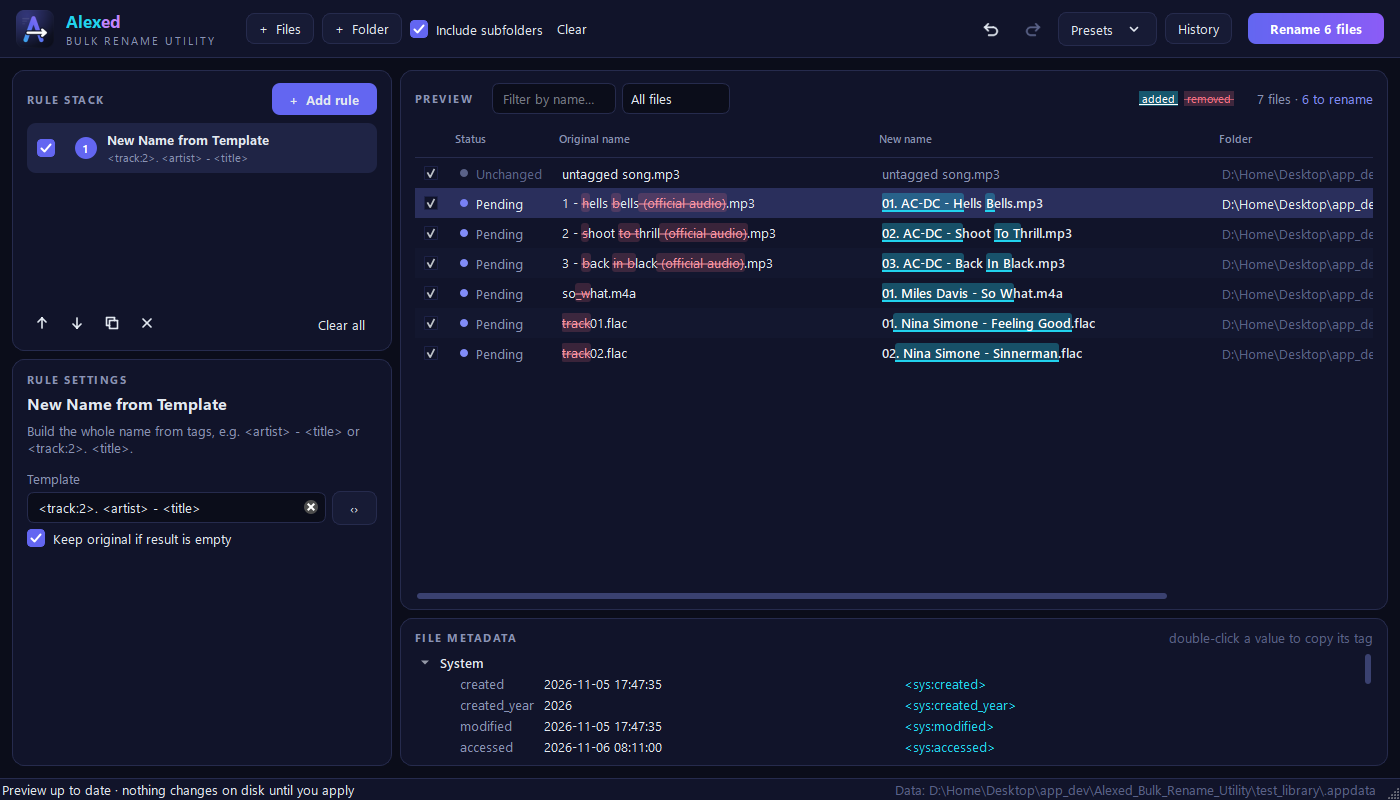
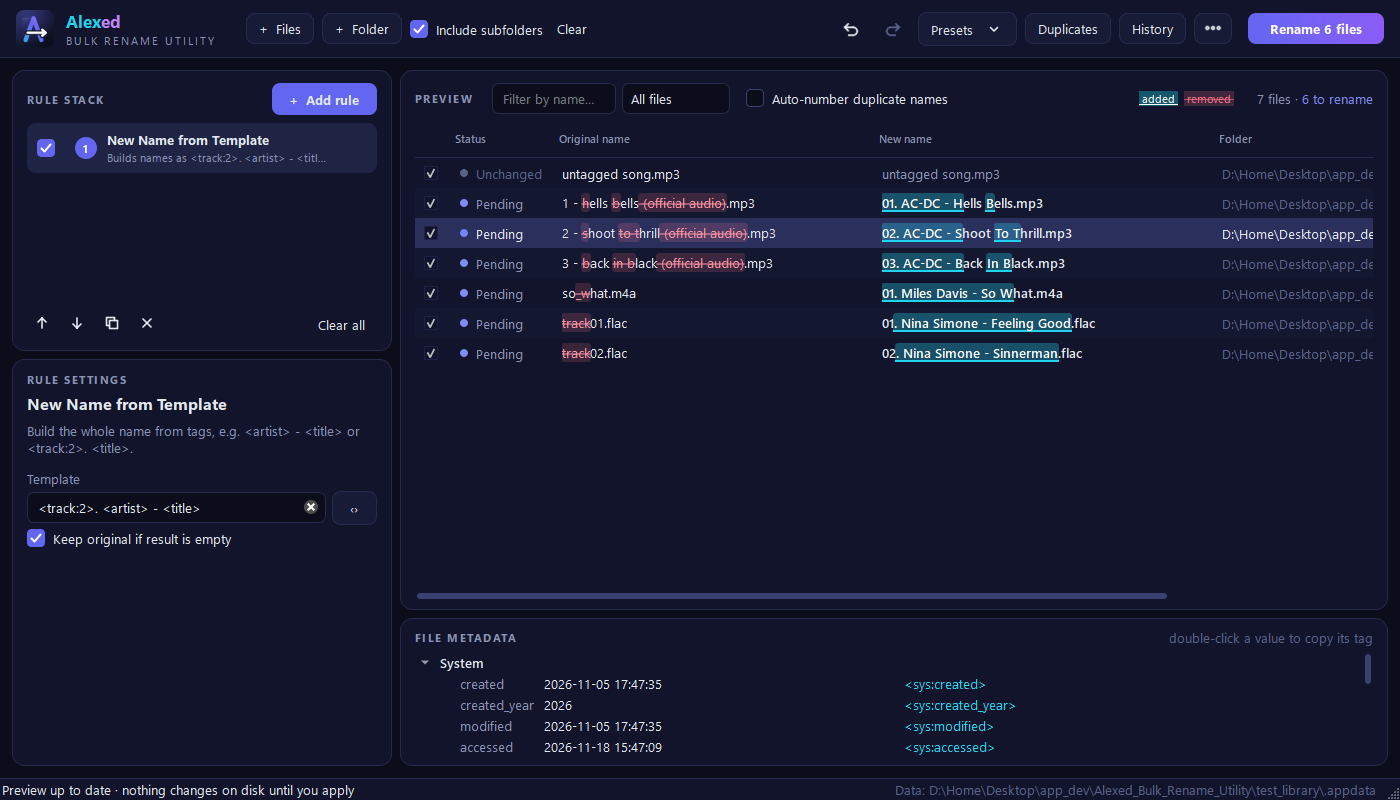
Release 1.1.0: version bump, new screenshots and social card
- APP_VERSION and README version line -> 1.1.0.
- Screenshots regenerated from the real window: main window, RegEx
  groups/examples/guide, smart tags, plus new From example,
  auto-number + hand-typed name, and Find duplicates; README shows them.
- tools/make_social_preview.py builds docs/social-preview.png (1280x640,
  shows the version) from the main-window screenshot.
- CLAUDE.md: status, assets and how screenshots and the card are made.

diff --git a/tools/make_social_preview.py b/tools/make_social_preview.py
@@ -1,0 +1,61 @@
+# Copyright (C) 2026 Alexander Bediako
+# SPDX-License-Identifier: GPL-3.0-or-later
+"""Build docs/social-preview.png (1280x640), the GitHub repository card.
+
+Run from the project folder after refreshing docs/screenshots/main-window.png:
+    .venv\\Scripts\\python tools\\make_social_preview.py
+"""
+from pathlib import Path
+
+from PIL import Image, ImageDraw, ImageFilter, ImageFont
+
+from alexed_bru import APP_VERSION
+
+ROOT = Path(__file__).resolve().parent.parent
+W, H = 1280, 640
+BG, CYAN, VIOLET, INDIGO = (11, 13, 26), (34, 211, 238), (192, 132, 252), (99, 102, 241)
+TEXT, DIM, FAINT = (226, 232, 240), (170, 178, 204), (138, 147, 181)
+
+
+def font(name: str, size: int):
+    for n in (name, "segoeui.ttf"):
+        try:
+            return ImageFont.truetype(n, size)
+        except OSError:
+            pass
+    return ImageFont.load_default()
+
+
+img = Image.new("RGB", (W, H), BG)
+glow = Image.new("L", (W, H), 0)
+ImageDraw.Draw(glow).ellipse([640, -320, 1500, 420], fill=95)
+glow = glow.filter(ImageFilter.GaussianBlur(130))
+img = Image.composite(Image.new("RGB", (W, H), INDIGO), img, glow)
+
+logo = Image.open(ROOT / "assets/branding/png/logo-mark-256.png").convert("RGBA").resize((112, 112), Image.LANCZOS)
+img.paste(logo, (70, 88), logo)
+d = ImageDraw.Draw(img)
+title = font("segoeuib.ttf", 68)
+d.text((70, 226), "Alex", font=title, fill=CYAN)
+d.text((70 + d.textlength("Alex", font=title), 226), "ed", font=title, fill=VIOLET)
+d.text((72, 306), "Bulk Rename Utility", font=font("segoeuib.ttf", 40), fill=TEXT)
+body = font("segoeui.ttf", 27)
+d.text((72, 384), "Rename thousands of files safely:", font=body, fill=DIM)
+d.text((72, 420), "live preview, no RegEx needed,", font=body, fill=DIM)
+d.text((72, 456), "undo any batch.", font=body, fill=DIM)
+d.text((72, 540), f"v{APP_VERSION} · Free · Portable · Open source · Windows", font=font("segoeui.ttf", 21),
+       fill=FAINT)
+
+shot = Image.open(ROOT / "docs/screenshots/main-window.png").convert("RGB")
+shot = shot.resize((int(shot.width * 0.5), int(shot.height * 0.5)), Image.LANCZOS)
+x, y = 560, 120
+shadow = Image.new("L", (W, H), 0)
+ImageDraw.Draw(shadow).rectangle([x + 10, y + 18, x + shot.width + 10, y + shot.height + 18], fill=170)
+shadow = shadow.filter(ImageFilter.GaussianBlur(24))
+img = Image.composite(Image.new("RGB", (W, H), (0, 0, 0)), img, shadow)
+img.paste(shot, (x, y))
+ImageDraw.Draw(img).rectangle([x, y, x + shot.width - 1, y + shot.height - 1], outline=(38, 43, 77), width=2)
+
+out = ROOT / "docs/social-preview.png"
+img.save(out)
+print("saved", out, img.size)

diff --git a/alexed_bru/__init__.py b/alexed_bru/__init__.py
@@ -4,4 +4,4 @@
 
 APP_NAME = "Alexed Bulk Rename Utility"
 APP_SHORT = "Alexed BRU"
-APP_VERSION = "1.0.0"
+APP_VERSION = "1.1.0"

diff --git a/CLAUDE.md b/CLAUDE.md
@@ -6,11 +6,15 @@ stack rules (Find & Replace, RegEx, prefix/suffix, case, counters/renumbering, t
 preview, then rename as one transaction that rolls back on any failure. Any batch can be undone later from History.
 Reads audio (mutagen), video (MP4/MOV atoms), EXIF (Pillow) and PDF/Office metadata for tag-based names.
 
-- **Status:** v1.0.0 released 2026-11-06. Public repo https://github.com/alexbedca/Alexed-Bulk-Rename-Utility
-  (GPL-3.0-or-later). Release assets: `AlexedBulkRename.exe` + `AlexedBulkRename.exe.sha256`.
-  Later commits on `main` (speed-ups, renumbering fixes, RegEx examples/guide, Find duplicates, RegEx from example,
-  plain-English rule summaries, hand-edited names, auto-number duplicates, Send To shortcut) are **not in a release
-  yet**; planned as v1.1.0.
+- **Status:** v1.1.0 released 2026-11-18 (v1.0.0 on 2026-11-06). Public repo
+  https://github.com/alexbedca/Alexed-Bulk-Rename-Utility (GPL-3.0-or-later). Release assets: `AlexedBulkRename.exe`,
+  `AlexedBulkRename.exe.sha256`, `LICENSE`, `THIRD-PARTY-NOTICES.txt`.
+  1.1.0 added: Find duplicates, RegEx from example, plain-English rule cards, hand-edited names, auto-number
+  duplicate names, Send To shortcut.
+- **Screenshots and social card:** regenerate every release. README screenshots come from the real window over
+  `test_library` (script pattern: drive `MainWindow` with `ALEXED_BRU_DATA=test_library\.appdata`, `widget.grab()`).
+  Card: `.venv\Scripts\python tools\make_social_preview.py` → `docs/social-preview.png` (shows the version), then
+  upload it in repo Settings → Social preview via Claude in Chrome.
 - **No CI** (no `.github/` folder): tests only run locally.
 - **Known limits:** MKV/AVI/WebM tags not read; folders themselves are not renamed.
 - **Read first:** `README.md` (user view), `docs/ARCHITECTURE.md` (layout, data flow, safety model, how to add rules),
@@ -49,8 +53,8 @@ build.ps1                 venv + tests + PyInstaller -> dist\AlexedBulkRename.ex
 **Account tools this project uses** (full list in `~/.claude/CLAUDE.md`)
 - `git push` via Git Credential Manager; `gh release create/upload` for releases (repo `alexbedca/Alexed-Bulk-Rename-Utility`).
 - Personal skill `alexbed-github-publish` for README/licence/screenshot/social-preview conventions.
-- Claude in Chrome for the GitHub social-preview upload (web-only). Card working files are in
-  `..\Fast copier\social-cards\` (git-ignored there).
+- Claude in Chrome for the GitHub social-preview upload (web-only). The card is `docs/social-preview.png`,
+  made by `tools/make_social_preview.py`.
 
 ## Decisions and gotchas
 - **Safety model is the core promise:** the pipeline never touches disk; Apply = two-phase rename via

diff --git a/README.md b/README.md
@@ -5,7 +5,7 @@
 A portable, transactional bulk file renamer for big music libraries, photo and video folders and deeply nested document archives.
 It's a single `.exe` for Windows 10/11, with no installer and no registry footprint.
 
-**Version:** 1.0.0 &nbsp;|&nbsp; **Author:** Alexander Bediako &nbsp;|&nbsp; **Licence:** [GPL-3.0-or-later](LICENSE)
+**Version:** 1.1.0 &nbsp;|&nbsp; **Author:** Alexander Bediako &nbsp;|&nbsp; **Licence:** [GPL-3.0-or-later](LICENSE)
 
 ![Main window: rules on the left, live preview on the right](docs/screenshots/main-window.png)
 
@@ -67,6 +67,8 @@ If two files would end up with the same name, both show a red error and are skip
 others become `photo (1).jpg`, `photo (2).jpg` and so on, skipping numbers already used in the folder.
 Numbered rows show in amber. This setting is remembered.
 
+![Auto-numbered duplicate names and a name typed by hand (pencil, italics)](docs/screenshots/auto-number-and-edit.png)
+
 ### Send To menu (optional)
 
 In the **⋯** menu (top right), tick **Add to Windows "Send To" menu**. Then you can right-click files in Explorer →
@@ -85,6 +87,8 @@ Click **Duplicates** to find files in the list that have exactly the same conten
 
 Nothing is ever deleted permanently.
 
+![Find duplicates: identical files grouped, the original kept, copies ticked](docs/screenshots/duplicates.png)
+
 ## Regular expressions (RegEx)
 
 New to RegEx? Open a **RegEx Replace** rule:
@@ -92,6 +96,8 @@ New to RegEx? Open a **RegEx Replace** rule:
 - **Examples** fills in a ready-made pattern, such as removing track numbers, swapping "Artist - Title", or turning `IMG_20230601_142209` into a date. You see the result in the preview straight away.
 - **RegEx guide** opens a cheat sheet. The same guide is in [docs/REGEX_GUIDE.md](docs/REGEX_GUIDE.md).
 - **From example** writes the pattern for you: pick a file and type how its name should look (for example `Adele - Hello` → `Hello - Adele`). It shows the pattern and how many files it matches before you use it. Files with a different shape are left unchanged. See [Generate a pattern from an example](docs/REGEX_GUIDE.md#generate-a-pattern-from-an-example).
+
+![Generate a pattern from one example](docs/screenshots/regex-from-example.png)
 
 ![RegEx capture groups highlighted in the preview](docs/screenshots/regex-groups.png)
 
